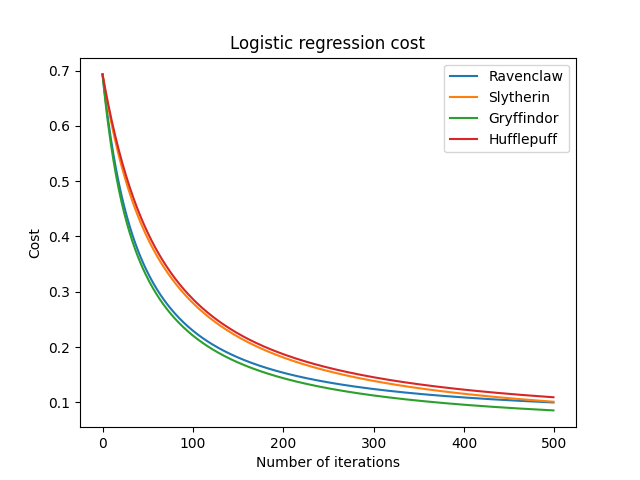
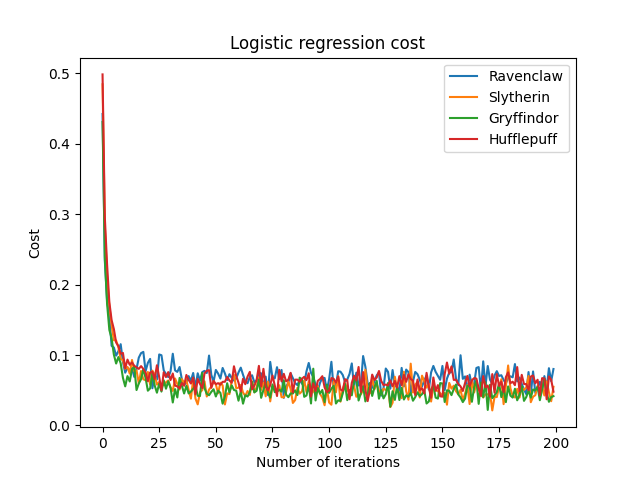
[DONE] Implemented 2 more GDs - stochastic and mini-batch

diff --git a/logreg_train.py b/logreg_train.py
@@ -51,7 +51,7 @@ def standardization(df: DataFrame, titles: list) -> np.ndarray:
     return X
 
 
-def model_accuracy(X: np.ndarray, thetas: dict, col: pd.Series) -> float:
+def model_accuracy(X: np.ndarray, thetas: dict, col: pd.Series):
     """
     Computes the accuracy of the model.
     :param X: NumPy array
@@ -65,7 +65,7 @@ def model_accuracy(X: np.ndarray, thetas: dict, col: pd.Series) -> float:
     print("Model accuracy: ", "{:.3f}".format(acc))
 
 
-def batch_gd(theta: np.ndarray, intercept: float, X: np.ndarray, y: np.ndarray, cost: list) -> tuple:
+def batch_gd(theta: np.ndarray, intercept: float, X: np.ndarray, y: np.ndarray, cost: list):
     """
     Batch gradient descent algorithm
     :param theta:
@@ -76,8 +76,8 @@ def batch_gd(theta: np.ndarray, intercept: float, X: np.ndarray, y: np.ndarray, 
     :return:
     """
 
-    lr = 0.025
-    n_iters = 500
+    lr = 0.1
+    n_iters = 1000
     for iter in range(n_iters):
         y_pred = sigmoid(np.dot(X, theta) + intercept)
 
@@ -87,19 +87,55 @@ def batch_gd(theta: np.ndarray, intercept: float, X: np.ndarray, y: np.ndarray, 
         theta -= lr * dw
         intercept -= lr * db
 
-        loss = (-1 / len(X)) * np.sum(
-            y * np.log(y_pred) + (1 - y) * np.log(1 - y_pred))
+        loss = (-1 / len(X)) * np.sum(y * np.log(y_pred) + (1 - y) * np.log(1 - y_pred))
         cost.append(loss)
 
         if iter % 100 == 0:
-            # current_accuracy = accuracy(sigmoid(np.dot(X, theta) +
-            #                                    intercept) >= 0.7, y)
             print("iter:", iter, "cost:", "{:.2f}".format(loss))
 
     return intercept, cost
 
 
-def stochastic_gd(theta: np.ndarray, intercept: float, X: np.ndarray, y: np.ndarray, cost: list) -> tuple:
+def mini_batch_gd(theta: np.ndarray, intercept: float, X: np.ndarray, y: np.ndarray, cost: list):
+    """
+    Mini-batch gradient descent algorithm
+    :param theta:
+    :param intercept:
+    :param X:
+    :param y:
+    :param cost:
+    :return:
+    """
+
+    lr = 0.01
+    n_iters = 200
+    for iter in range(n_iters):
+        batch_size = 50
+        total_loss = 0
+        for i in range(0, len(X), batch_size):
+            x_batch = X[i:i + batch_size]
+            y_batch = y[i:i + batch_size]
+
+            y_pred = sigmoid(np.dot(x_batch, theta) + intercept)
+
+            dw = (1 / len(x_batch)) * np.dot(x_batch.T, (y_pred - y_batch))
+            db = (1 / len(x_batch)) * np.sum(y_pred - y_batch)
+
+            theta -= lr * dw
+            intercept -= lr * db
+
+            loss = (-1 / len(x_batch)) * np.sum(y_batch * np.log(y_pred) + (1 - y_batch) * np.log(1 - y_pred))
+            total_loss += loss
+        avg_loss = total_loss / len(x_batch)
+        cost.append(avg_loss)
+
+        if iter % 50 == 0:
+            print("iter:", iter, "cost:", "{:.2f}".format(avg_loss))
+
+    return intercept, cost
+
+
+def stochastic_gd(theta: np.ndarray, intercept: float, X: np.ndarray, y: np.ndarray, cost: list):
     """
     Stochastic gradient descent algorithm
     :param theta:
@@ -110,8 +146,8 @@ def stochastic_gd(theta: np.ndarray, intercept: float, X: np.ndarray, y: np.ndar
     :return:
     """
 
-    lr = 0.025
-    n_iters = 500
+    lr = 0.001
+    n_iters = 200
     for iter in range(n_iters):
         total_loss = 0
         for i in range(len(X)):
@@ -127,12 +163,13 @@ def stochastic_gd(theta: np.ndarray, intercept: float, X: np.ndarray, y: np.ndar
             theta -= lr * dw
             intercept -= lr * db
 
-            loss = y_i * np.log(y_pred) + (1 - y_i) * np.log(1 - y_pred)
+            loss = -(y_i * np.log(y_pred) + (1 - y_i) * np.log(1 - y_pred))
             total_loss += loss
-            cost.append(total_loss / len(X))
+        avg_loss = total_loss / len(X)
+        cost.append(avg_loss)
 
-            if iter % 100 == 0:
-                print("iter:", iter, "cost:", "{:.2f}".format(loss))
+        if iter % 50 == 0:
+            print("iter:", iter, "cost:", "{:.2f}".format(avg_loss))
 
     return intercept, cost
 
@@ -150,7 +187,6 @@ def train_logreg(df: DataFrame, titles: list, algo: str) -> None:
 
     # Normalize data and add first col of 1 for intercept
     X = standardization(df, titles)
-    print(f"X values: {X}")
 
     houses = df['Hogwarts House'].unique()
 
@@ -173,9 +209,11 @@ def train_logreg(df: DataFrame, titles: list, algo: str) -> None:
 
         # Gradient descent
         if algo == "batch":
-            intercept, costs = batch_gd(theta, intercept, X, y, cost)
+            intercept, cost = batch_gd(theta, intercept, X, y, cost)
+        if algo == "mini-batch":
+            intercept, cost = mini_batch_gd(theta, intercept, X, y, cost)
         elif algo == "stochastic":
-            intercept, costs = stochastic_gd(theta, intercept, X, y, cost)
+            intercept, cost = stochastic_gd(theta, intercept, X, y, cost)
 
         thetas[house] = theta
         # Add intercept to theta values
@@ -209,7 +247,6 @@ def clean_data(df: DataFrame, titles: list) -> None:
     :param titles: list of features
     :return: cleaned dataframe
     """
-    #df[titles] = df[titles].ffill().bfill() #or this one
     df[titles] = df[titles].fillna(df[titles].mean())
 
 
@@ -233,7 +270,6 @@ def main():
             'Charms',
             'Flying'
         ]
-        #df.dropna(inplace=True)
         clean_data(df, titles) # filling the nan values with mean or drop them??
         train_logreg(df, titles, algo)
 

diff --git a/README.md b/README.md
@@ -48,6 +48,32 @@ that maps any real value into a value between 0 and 1.
 As in the linear regression, we use the gradient descent algorithm to minimize the 
 cost function and increase the accuracy of the model. 
 
+## Gradient descent algorithms
+
+There are different types of gradient descent algorithms that can be used:
+
+### Batch Gradient Descent
+
+This is the most common type of gradient descent. It calculates the gradient of the cost function 
+for the entire dataset and updates the weights at each iteration. It is very slow and 
+computationally expensive, but it is guaranteed to converge to the global minimum.
+Since it applies on all the dataset, the learning rate and the number of iterations can be set 
+respectively to 0.01-0.1 and 500-2000.
+
+### Stochastic Gradient Descent
+
+This algorithm is faster than the batch gradient descent, but it is less accurate.
+It calculates the gradient of the cost function for each sample and updates the weights at each iteration.
+It is more noisy and can converge to a local minimum, but it is more efficient for large datasets.
+The learning rate and the number of iterations can be set respectively to 0.001-0.01 and 100-500.
+
+### Mini-batch Gradient Descent
+
+This algorithm is a compromise between the batch and stochastic gradient descent.
+It calculates the gradient of the cost function for a subset of the dataset and updates the weights at each iteration.
+It is faster than the batch gradient descent and more accurate than the stochastic gradient descent.
+The learning rate and the number of iterations can be set respectively to 0.01-0.1 and 100-500.
+
 ## Usage
 
 For these programs to work, you need to have the following libraries installed:
@@ -70,3 +96,7 @@ https://www.ibm.com/fr-fr/topics/logistic-regression
 https://mrmint.fr/logistic-regression-machine-learning-introduction-simple
 
 https://www.geeksforgeeks.org/ml-stochastic-gradient-descent-sgd/
+
+https://machinelearningmastery.com/understand-the-dynamics-of-learning-rate-on-deep-learning-neural-networks/
+
+https://prasad07143.medium.com/variants-of-gradient-descent-and-their-implementation-in-python-from-scratch-2b3cceb7a1a0
